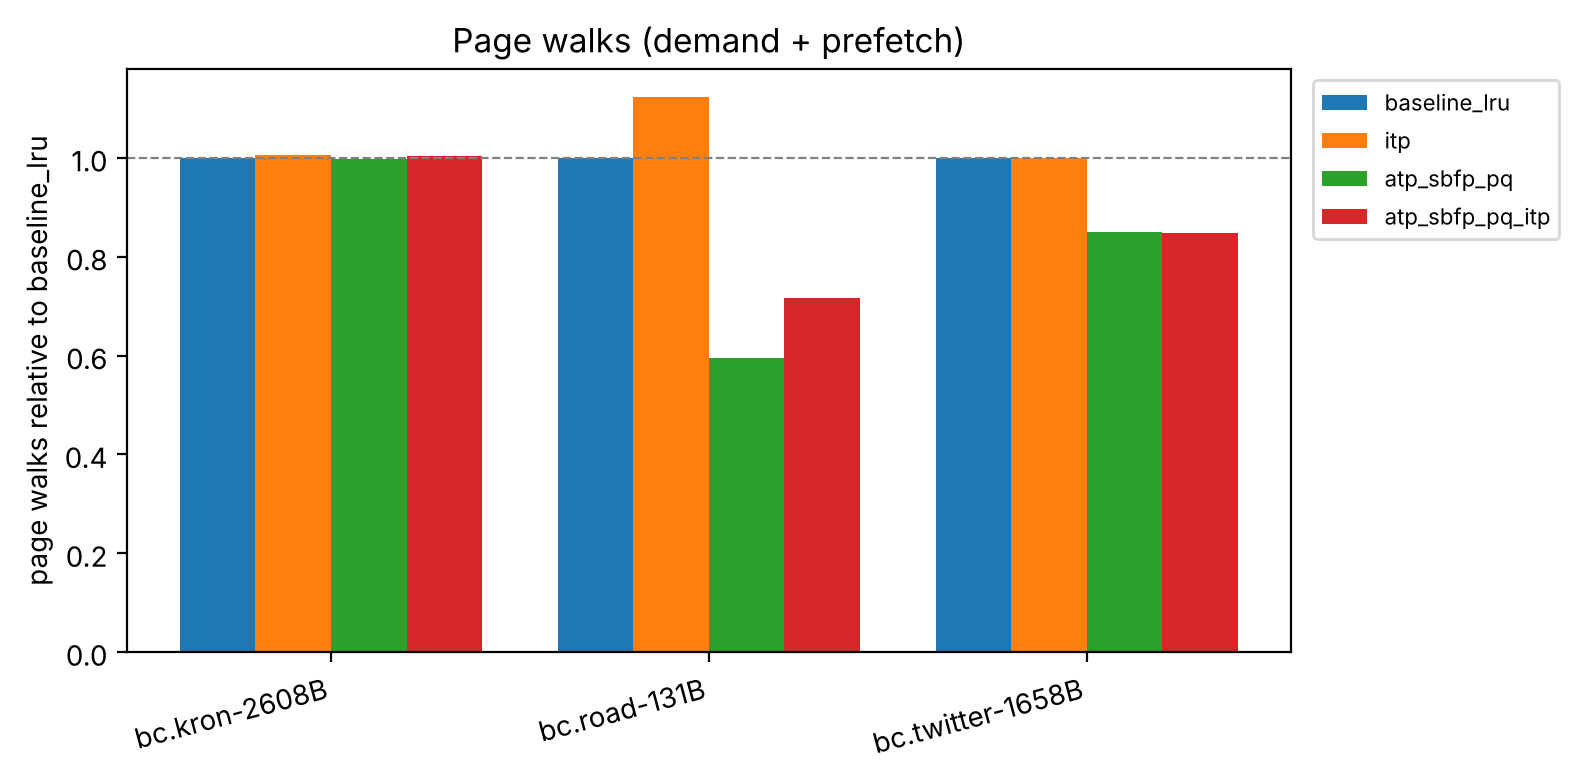
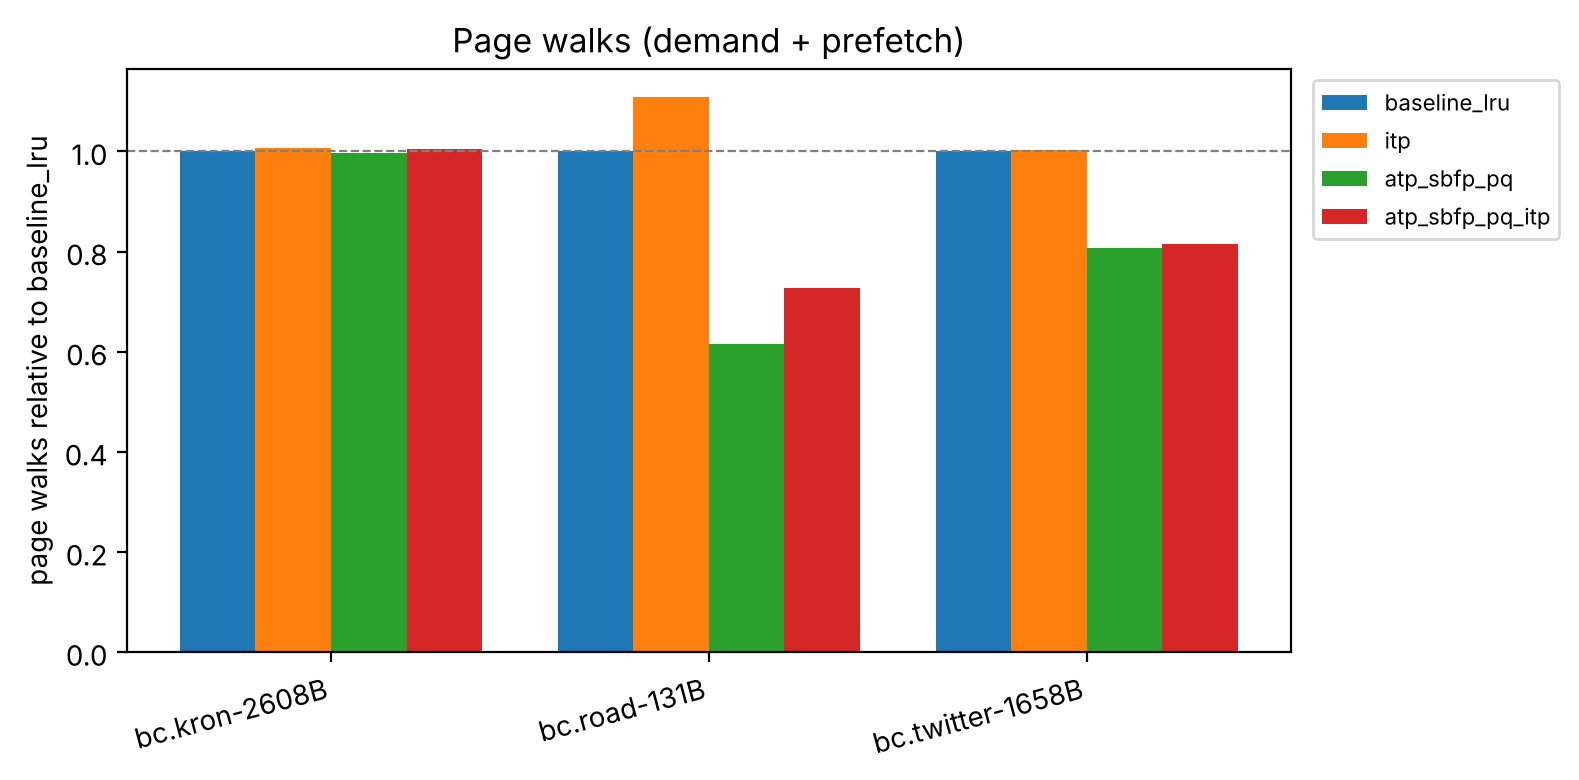
docs: report the 100M GAP run and regenerate the GAP figures
Claude-Session: https://claude.ai/code/session_01HS8Bm9t4qUbVwnKy3XUZC8

diff --git a/README.md b/README.md
@@ -71,7 +71,7 @@ Per-access energies and leakage come from [CACTI](https://github.com/HewlettPack
 | Core / TLBs | ChampSim defaults: 4 GHz core, STLB 128 sets × 12 ways, 4 KB pages |
 | STLB prefetch queue | `pq_size = 8` (default is 0, which disables STLB prefetching) |
 | Traces | `429.mcf-51B`, `620.omnetpp_s-874B`, `623.xalancbmk_s-700B`, selected by STLB MPKI (see Trace selection below) |
-| Warmup / simulation | 20M warmup + 100M simulated instructions for the four required configurations on the SPEC traces; 10M + 20M for the ablation configurations and the GAP traces (a 100M GAP run is still to do) |
+| Warmup / simulation | 20M warmup + 100M simulated instructions for the four required configurations on the SPEC traces; 10M + 20M for the ablation configurations; 20M warmup + 100M for the four required configurations on the GAP traces as well (a 10M + 20M GAP run is also available) |
 
 ### Trace selection
 
@@ -274,32 +274,33 @@ The Pareto plot (speedup against estimated translation energy) will be added onc
 - A shorter 10M warmup + 20M run gave the same ranking, except that `623.xalancbmk_s-700B` with iTP looked nearly neutral there (speedup 0.997) and is clearly worse at 100M (0.979). The two windows cover different parts of the trace (the 20M run measures instructions 10M to 30M, the 100M run 20M to 120M). Where they overlap (instructions 20M to 30M) iTP is about 1.0% slower in both runs, and it falls further behind later (1.5% to 3.1% slower per 10M-instruction slice). Walks more than double, yet speed drops only about 2%, because walks on this trace are cheap (about 21 cycles per STLB miss) and partly overlapped by the core. Instruction share of STLB accesses is only 1.6%, so iTP's instruction priority gains little. We read this as phase dependence; the instruction-share explanation is consistent with the counters but not tested separately.
 - The `atp`, `atp_itp`, `atp_sbfp` and `atp_sbfp_itp` ablations were run at 10M + 20M only. Without the prefetch queue, free prefetches pollute the STLB (`623.xalancbmk_s-700B`: 0.989 speedup, +51% walks).
 
-**GAP graph workloads** (10M warmup + 20M simulated instructions, four required configurations; run by Johnny Van). These traces have 0% instruction share of STLB accesses. Short window only, so treat the numbers with the same caution as the 20M SPEC runs.
+**GAP graph workloads** (20M warmup + 100M simulated instructions, four required configurations; run by Johnny Van; a 10M + 20M run gave the same picture). These traces have 0% instruction share of STLB accesses.
 
 | Trace | Config | IPC | Speedup vs LRU | STLB MPKI | Page walks | Walks vs LRU | ATP prefetch walks |
 |---|---|---|---|---|---|---|---|
-| `bc.kron-2608B` | `baseline_lru` | 0.2325 | 1.0000 | 18.14 | 362,873 | — | 0 |
-| | `itp` | 0.2325 | 1.0000 | 18.26 | 365,200 | +0.6% | 0 |
-| | `atp_sbfp_pq` | 0.2325 | 1.0000 | 18.14 | 362,177 | −0.2% | 0 |
-| | `atp_sbfp_pq_itp` | 0.2326 | 1.0001 | 18.26 | 364,285 | +0.4% | 0 |
-| `bc.road-131B` | `baseline_lru` | 0.1293 | 1.0000 | 8.61 | 172,239 | — | 0 |
-| | `itp` | 0.1297 | 1.0031 | 9.68 | 193,541 | +12% | 0 |
-| | `atp_sbfp_pq` | 0.1294 | 1.0011 | 8.61 | 102,528 | −40% | 0 |
-| | `atp_sbfp_pq_itp` | 0.1298 | 1.0044 | 9.65 | 123,505 | −28% | 0 |
-| `bc.twitter-1658B` | `baseline_lru` | 0.2114 | 1.0000 | 18.70 | 374,027 | — | 0 |
-| | `itp` | 0.2117 | 1.0010 | 18.70 | 374,073 | +0.01% | 0 |
-| | `atp_sbfp_pq` | 0.2161 | 1.0221 | 19.83 | 317,630 | −15% | 31,591 |
-| | `atp_sbfp_pq_itp` | 0.2162 | 1.0226 | 19.81 | 317,365 | −15% | 28,497 |
+| `bc.kron-2608B` | `baseline_lru` | 0.2510 | 1.0000 | 18.15 | 1,814,644 | — | 0 |
+| | `itp` | 0.2510 | 0.9999 | 18.28 | 1,828,107 | +0.7% | 0 |
+| | `atp_sbfp_pq` | 0.2510 | 1.0000 | 18.15 | 1,810,048 | −0.3% | 0 |
+| | `atp_sbfp_pq_itp` | 0.2510 | 0.9999 | 18.28 | 1,822,518 | +0.4% | 0 |
+| `bc.road-131B` | `baseline_lru` | 0.1397 | 1.0000 | 8.37 | 836,505 | — | 0 |
+| | `itp` | 0.1399 | 1.0020 | 9.28 | 927,888 | +10.9% | 0 |
+| | `atp_sbfp_pq` | 0.1398 | 1.0011 | 8.36 | 514,241 | −38.5% | 0 |
+| | `atp_sbfp_pq_itp` | 0.1401 | 1.0031 | 9.29 | 607,733 | −27.3% | 0 |
+| `bc.twitter-1658B` | `baseline_lru` | 0.3778 | 1.0000 | 9.55 | 955,310 | — | 0 |
+| | `itp` | 0.3778 | 1.0000 | 9.57 | 957,447 | +0.2% | 0 |
+| | `atp_sbfp_pq` | 0.3854 | 1.0202 | 10.59 | 770,340 | −19.4% | 146,515 |
+| | `atp_sbfp_pq_itp` | 0.3862 | 1.0223 | 10.66 | 778,027 | −18.6% | 149,233 |
 
 ![GAP speedup vs baseline_lru](docs/figures/gap/speedup.png)
 ![GAP page walks relative to baseline_lru](docs/figures/gap/page_walks.png)
 
 - On `bc.kron-2608B` no policy changes anything measurable.
-- On `bc.twitter-1658B` ATP stays enabled on its own (31,591 prefetch walks) and `atp_sbfp_pq` gives the largest speedup so far (+2.2%) with 15% fewer page walks. This is the first workload where ATP activates without iTP.
-- On `bc.road-131B` the prefetch queue removes 40% of page walks for +0.1% speed. iTP is slightly faster there (+0.3%) even though walks rise by 12%; we have not explained this and it is a small effect on one short window.
-- The STLB MPKI column includes prefetch accesses (for example `bc.twitter-1658B` `atp_sbfp_pq` shows more STLB accesses than the baseline), so use page walks to compare.
+- On `bc.twitter-1658B` ATP turns itself on (146,515 prefetch walks) and `atp_sbfp_pq` gives the largest speedup so far (+2.0%, +2.2% at 20M) with 19% fewer page walks. This is the first workload where ATP activates without iTP.
+- On `bc.road-131B` the prefetch queue removes 38% of page walks for +0.1% speed. iTP is slightly faster there (+0.2%) even though walks rise by 11%; we have not explained this and it is a small effect.
+- The window changes the absolute numbers: `bc.twitter-1658B` baseline STLB MPKI is 9.55 at 100M but 18.70 in the 20M screening window, so the two windows cover different phases. The ranking of configurations is the same.
+- The STLB MPKI column includes prefetch accesses, so use page walks to compare.
 
-**Still to come:** energy and EDP per configuration, the Pareto comparison, and a longer window for the GAP traces. Each trace will be tagged with a workload type for objective 3.
+**Still to come:** energy and EDP per configuration, the Pareto comparison, Each trace will be tagged with a workload type for objective 3.
 
 ## Project Status
 
